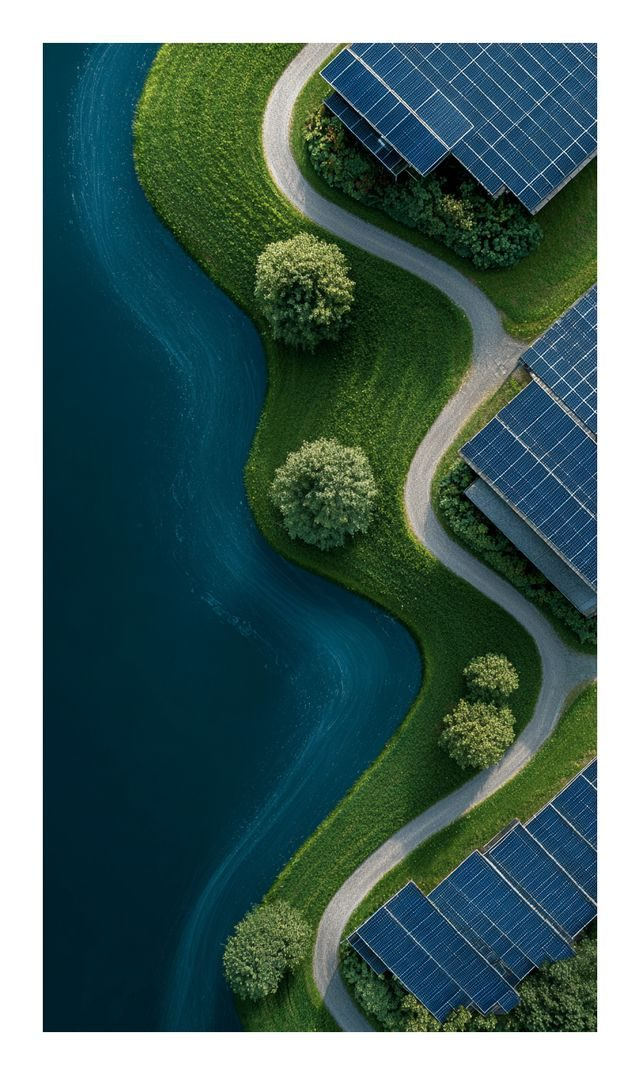
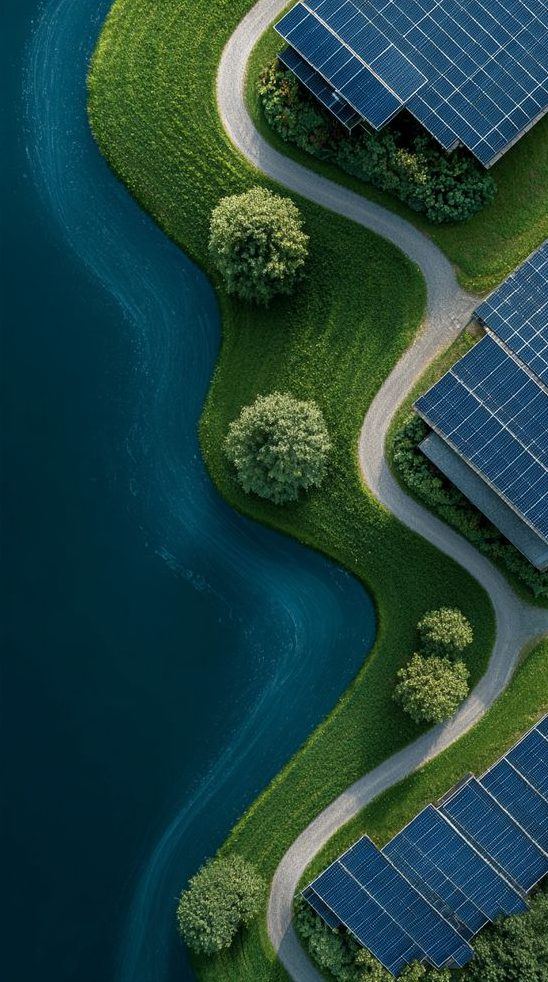
Insights: borderless hero photo; separate thumbnail, cover and inline photo per article
Claude-Session: https://claude.ai/code/session_01VjnP8udn47E4aK7yR8hhyr

diff --git a/insights/biomethane/europe-energy-market-2026/index.html b/insights/biomethane/europe-energy-market-2026/index.html
@@ -36,7 +36,7 @@
   
 <p>Ten months ago the European gas market looked settled. The one-month TTF contract fell below €27/MWh in early December 2025, its lowest level in 20 months, as LNG supply grew and storage looked comfortable. On 22 October 2026 the same benchmark stood near €89/MWh, according to European Commission data reported by ANSA. That is a 177% rise since February, when the conflict involving Iran began and shipments through the Strait of Hormuz came into question.</p>
 
-<figure class="exhibit"><figcaption><span class="ex-num">Exhibit 1</span><span class="ex-title">TTF gas price, September 2025 to October 2026 (€/MWh)</span></figcaption><div class="ex-body"><svg viewBox="0 0 760 320" role="img" aria-label="Dutch TTF gas price, September 2025 to October 2026, in euros per MWh" class="ex-svg" font-family="var(--f-data)" font-size="12"><line x1="56" x2="730" y1="276.0" y2="276.0" stroke="var(--rule)"/><text x="48" y="280.0" text-anchor="end" fill="var(--muted)">0</text><line x1="56" x2="730" y1="225.8" y2="225.8" stroke="var(--rule)"/><text x="48" y="229.8" text-anchor="end" fill="var(--muted)">20</text><line x1="56" x2="730" y1="175.7" y2="175.7" stroke="var(--rule)"/><text x="48" y="179.7" text-anchor="end" fill="var(--muted)">40</text><line x1="56" x2="730" y1="125.5" y2="125.5" stroke="var(--rule)"/><text x="48" y="129.5" text-anchor="end" fill="var(--muted)">60</text><line x1="56" x2="730" y1="75.4" y2="75.4" stroke="var(--rule)"/><text x="48" y="79.4" text-anchor="end" fill="var(--muted)">80</text><line x1="346.0" x2="346.0" y1="26" y2="276" stroke="var(--muted)" stroke-dasharray="3 4"/><text x="352.0" y="38" fill="var(--muted)">Conflict begins</text><path d="M56.0,195.6 L158.1,196.1 L346.0,195.5 L386.5,140.5 L399.5,156.8 L448.1,160.7 L498.3,157.1 L546.9,166.7 L600.4,131.8 L647.4,96.0 L730.0,52.8" fill="none" stroke="var(--accent)" stroke-width="2.25"/><circle cx="56.0" cy="195.6" r="3.5" fill="var(--accent)"><title>01 Sep 2025: 32.1 €/MWh</title></circle><circle cx="158.1" cy="196.1" r="3.5" fill="var(--accent)"><title>03 Nov 2025: 31.9 €/MWh</title></circle><circle cx="346.0" cy="195.5" r="3.5" fill="var(--accent)"><title>27 Feb 2026: 32.1 €/MWh</title></circle><circle cx="386.5" cy="140.5" r="3.5" fill="var(--accent)"><title>24 Mar 2026: 54.0 €/MWh</title></circle><text x="386.5" y="130.5" text-anchor="middle" fill="var(--ink)" font-weight="600">54</text><circle cx="399.5" cy="156.8" r="3.5" fill="var(--accent)"><title>01 Apr 2026: 47.5 €/MWh</title></circle><circle cx="448.1" cy="160.7" r="3.5" fill="var(--accent)"><title>01 May 2026: 46.0 €/MWh</title></circle><circle cx="498.3" cy="157.1" r="3.5" fill="var(--accent)"><title>01 Jun 2026: 47.4 €/MWh</title></circle><circle cx="546.9" cy="166.7" r="3.5" fill="var(--accent)"><title>01 Jul 2026: 43.6 €/MWh</title></circle><circle cx="600.4" cy="131.8" r="3.5" fill="var(--accent)"><title>03 Aug 2026: 57.5 €/MWh</title></circle><circle cx="647.4" cy="96.0" r="3.5" fill="var(--accent)"><title>01 Sep 2026: 71.8 €/MWh</title></circle><circle cx="730.0" cy="52.8" r="3.5" fill="var(--accent)"><title>22 Oct 2026: 89.0 €/MWh</title></circle><text x="730.0" y="42.8" text-anchor="middle" fill="var(--ink)" font-weight="600">89</text><text x="104.6" y="296" text-anchor="middle" fill="var(--muted)">Oct 25</text><text x="253.7" y="296" text-anchor="middle" fill="var(--muted)">Jan 26</text><text x="399.5" y="296" text-anchor="middle" fill="var(--muted)">Apr 26</text><text x="546.9" y="296" text-anchor="middle" fill="var(--muted)">Jul 26</text><text x="696.0" y="296" text-anchor="middle" fill="var(--muted)">Oct 26</text><line x1="56" x2="730" y1="276" y2="276" stroke="var(--rule-strong)"/></svg></div><p class="ex-note">Single-day prints, mostly the first trading day of each month. The late-February level is implied from the Commission's +177% figure.</p><p class="ex-source">Source: <a href="https://index.minfin.com.ua/markets/gas/ttf/2026-09/" rel="noopener" target="_blank">minfin.com.ua TTF history</a> · <a href="https://tradingeconomics.com/commodity/eu-natural-gas%20" rel="noopener" target="_blank">Trading Economics</a> · <a href="https://www.soldionline.it/notizie/forex-commodities/gas-ue-177-da-febbraio-cosa-ce-dietro-il-balzo-del-ttf-a-89-mwh" rel="noopener" target="_blank">ANSA via SoldiOnline</a>; Qiao Partners.</p><figure class="photo-break"><img class="pb-img" src="/img/insights/eu-flag-mountains.jpg" alt="European Union flag flying against misty mountains" style="object-position:50% 45%" loading="lazy" decoding="async"><figcaption>European Union flag flying against misty mountains</figcaption></figure></figure>
+<figure class="exhibit"><figcaption><span class="ex-num">Exhibit 1</span><span class="ex-title">TTF gas price, September 2025 to October 2026 (€/MWh)</span></figcaption><div class="ex-body"><svg viewBox="0 0 760 320" role="img" aria-label="Dutch TTF gas price, September 2025 to October 2026, in euros per MWh" class="ex-svg" font-family="var(--f-data)" font-size="12"><line x1="56" x2="730" y1="276.0" y2="276.0" stroke="var(--rule)"/><text x="48" y="280.0" text-anchor="end" fill="var(--muted)">0</text><line x1="56" x2="730" y1="225.8" y2="225.8" stroke="var(--rule)"/><text x="48" y="229.8" text-anchor="end" fill="var(--muted)">20</text><line x1="56" x2="730" y1="175.7" y2="175.7" stroke="var(--rule)"/><text x="48" y="179.7" text-anchor="end" fill="var(--muted)">40</text><line x1="56" x2="730" y1="125.5" y2="125.5" stroke="var(--rule)"/><text x="48" y="129.5" text-anchor="end" fill="var(--muted)">60</text><line x1="56" x2="730" y1="75.4" y2="75.4" stroke="var(--rule)"/><text x="48" y="79.4" text-anchor="end" fill="var(--muted)">80</text><line x1="346.0" x2="346.0" y1="26" y2="276" stroke="var(--muted)" stroke-dasharray="3 4"/><text x="352.0" y="38" fill="var(--muted)">Conflict begins</text><path d="M56.0,195.6 L158.1,196.1 L346.0,195.5 L386.5,140.5 L399.5,156.8 L448.1,160.7 L498.3,157.1 L546.9,166.7 L600.4,131.8 L647.4,96.0 L730.0,52.8" fill="none" stroke="var(--accent)" stroke-width="2.25"/><circle cx="56.0" cy="195.6" r="3.5" fill="var(--accent)"><title>01 Sep 2025: 32.1 €/MWh</title></circle><circle cx="158.1" cy="196.1" r="3.5" fill="var(--accent)"><title>03 Nov 2025: 31.9 €/MWh</title></circle><circle cx="346.0" cy="195.5" r="3.5" fill="var(--accent)"><title>27 Feb 2026: 32.1 €/MWh</title></circle><circle cx="386.5" cy="140.5" r="3.5" fill="var(--accent)"><title>24 Mar 2026: 54.0 €/MWh</title></circle><text x="386.5" y="130.5" text-anchor="middle" fill="var(--ink)" font-weight="600">54</text><circle cx="399.5" cy="156.8" r="3.5" fill="var(--accent)"><title>01 Apr 2026: 47.5 €/MWh</title></circle><circle cx="448.1" cy="160.7" r="3.5" fill="var(--accent)"><title>01 May 2026: 46.0 €/MWh</title></circle><circle cx="498.3" cy="157.1" r="3.5" fill="var(--accent)"><title>01 Jun 2026: 47.4 €/MWh</title></circle><circle cx="546.9" cy="166.7" r="3.5" fill="var(--accent)"><title>01 Jul 2026: 43.6 €/MWh</title></circle><circle cx="600.4" cy="131.8" r="3.5" fill="var(--accent)"><title>03 Aug 2026: 57.5 €/MWh</title></circle><circle cx="647.4" cy="96.0" r="3.5" fill="var(--accent)"><title>01 Sep 2026: 71.8 €/MWh</title></circle><circle cx="730.0" cy="52.8" r="3.5" fill="var(--accent)"><title>22 Oct 2026: 89.0 €/MWh</title></circle><text x="730.0" y="42.8" text-anchor="middle" fill="var(--ink)" font-weight="600">89</text><text x="104.6" y="296" text-anchor="middle" fill="var(--muted)">Oct 25</text><text x="253.7" y="296" text-anchor="middle" fill="var(--muted)">Jan 26</text><text x="399.5" y="296" text-anchor="middle" fill="var(--muted)">Apr 26</text><text x="546.9" y="296" text-anchor="middle" fill="var(--muted)">Jul 26</text><text x="696.0" y="296" text-anchor="middle" fill="var(--muted)">Oct 26</text><line x1="56" x2="730" y1="276" y2="276" stroke="var(--rule-strong)"/></svg></div><p class="ex-note">Single-day prints, mostly the first trading day of each month. The late-February level is implied from the Commission's +177% figure.</p><p class="ex-source">Source: <a href="https://index.minfin.com.ua/markets/gas/ttf/2026-09/" rel="noopener" target="_blank">minfin.com.ua TTF history</a> · <a href="https://tradingeconomics.com/commodity/eu-natural-gas%20" rel="noopener" target="_blank">Trading Economics</a> · <a href="https://www.soldionline.it/notizie/forex-commodities/gas-ue-177-da-febbraio-cosa-ce-dietro-il-balzo-del-ttf-a-89-mwh" rel="noopener" target="_blank">ANSA via SoldiOnline</a>; Qiao Partners.</p><figure class="photo-break"><img class="pb-img" src="/img/insights/containers.jpg" alt="Stacked shipping containers" style="object-position:50% 40%" loading="lazy" decoding="async"><figcaption>Stacked shipping containers</figcaption></figure></figure>
 
 <h2 id="diversification-reduced-one-risk-and-exposed-another">Diversification reduced one risk and exposed another</h2>
 <p>After 2022 Europe replaced Russian pipeline gas with LNG from the United States, Qatar and elsewhere. That reduced dependence on a single supplier. It did not reduce dependence on shipping lanes, or on competing with Asian buyers for the same cargoes. The 2026 disruption tested exactly that exposure.</p>

diff --git a/pl/insights/index.html b/pl/insights/index.html
@@ -23,7 +23,7 @@
 <main>
 <div class="wrap">
 <section class="hub-hero"><div><div class="eyebrow">Qiao Partners</div><h1>Analizy</h1><p>Analizy transformacji energetycznej w Europie i korytarza Chiny–Europa: rynki, regulacje, urządzenia i handel.</p><p class="lang-note">Artykuły publikujemy najpierw po angielsku. Wersja polska wkrótce.</p></div>
-<figure class="hub-pic"><img class="" src="/img/insights/solar-lake.jpg" alt="Solar panels along a winding path beside a lake, seen from above" style="object-position:50% 50%" decoding="async"></figure></section>
+<figure class="hub-pic"><img class="" src="/img/insights/solar-field-aerial.jpg" alt="Rows of solar panels and power lines in a large solar field, seen from above" style="object-position:50% 50%" decoding="async"></figure></section>
 <div class="section-h"><h2>Seria</h2></div>
 <section class="series-feature"><div>
 <figure class="series-pic"><img class="" src="/img/insights/winding-road-fields.jpg" alt="A winding road through farmland, seen from above" style="object-position:50% 45%" loading="lazy" decoding="async"></figure>
@@ -31,11 +31,11 @@
 <h3>Rozbudowa rynku biometanu</h3><p>Sześcioczęściowa seria o europejskim rynku gazu odnawialnego: jak bardzo urósł, czego wymaga cel na 2030 r., gdzie trafią urządzenia i kapitał oraz jak przepisy kształtują przychody instalacji.</p><p class="upcoming">Następna część: <b>Biometan na poziomie 8 mld m³: ile Europa osiągnęła i ile jej brakuje</b> · 8 listopada 2026</p></div>
 <ol class="toc"><li><a href="/insights/biomethane/europe-energy-market-2026/"><span class="toc-n">01</span><span class="toc-t">Szok gazowy w Europie w 2026 r. i argumenty za krajowym gazem</span></a></li></ol></section>
 <div class="section-h"><h2>Najnowsze</h2></div>
-<div class="cards"><article class="card"><a class="thumb" href="/insights/biomethane/europe-energy-market-2026/" tabindex="-1" aria-hidden="true"><img class="" src="/img/insights/crossroads.jpg" alt="A person standing at a road junction with arrows pointing in four directions" style="object-position:50% 50%" loading="lazy" decoding="async"></a><div class="eyebrow">Rozbudowa rynku biometanu</div>
+<div class="cards"><article class="card"><a class="thumb" href="/insights/biomethane/europe-energy-market-2026/" tabindex="-1" aria-hidden="true"><img class="" src="/img/insights/eu-flag-mountains.jpg" alt="European Union flag flying against misty mountains" style="object-position:50% 45%" loading="lazy" decoding="async"></a><div class="eyebrow">Rozbudowa rynku biometanu</div>
 <h3><a href="/insights/biomethane/europe-energy-market-2026/">Szok gazowy w Europie w 2026 r. i argumenty za krajowym gazem</a></h3><p>Cena gazu TTF wzrosła od lutego niemal trzykrotnie. Biometan przestał być wyłącznie narzędziem klimatycznym i stał się kwestią bezpieczeństwa dostaw, a to zmienia, kto go kupuje i dlaczego.</p>
-<div class="meta">1 listopada 2026 · 5 min czytania</div></article><article class="card soon"><a class="thumb" tabindex="-1" aria-hidden="true"><img class="" src="/img/insights/biomethane-domes.jpg" alt="Biomethane plant with green digester domes in a field" style="object-position:50% 55%" loading="lazy" decoding="async"></a>
+<div class="meta">1 listopada 2026 · 5 min czytania</div></article><article class="card soon"><a class="thumb" tabindex="-1" aria-hidden="true"><img class="" src="/img/insights/field-road-truck.jpg" alt="Red truck on a straight dirt road through green crop fields, seen from above" style="object-position:50% 72%" loading="lazy" decoding="async"></a>
 <div class="eyebrow">Następna część · 8 listopada 2026</div>
-<h3>Biometan na poziomie 8 mld m³: ile Europa osiągnęła i ile jej brakuje</h3><p>Zainstalowana moc wzrosła w ciągu roku o 17%, a zobowiązania inwestycyjne sięgnęły 36 mld euro. Nawet jeśli powstaną wszystkie ogłoszone projekty, Europa osiągnie mniej więcej połowę celu na 2030 r.</p></article><article class="card soon"><a class="thumb" tabindex="-1" aria-hidden="true"><img class="" src="/img/insights/biomethane-plant-trucks.jpg" alt="Biomethane plant with feedstock trucks arriving" style="object-position:50% 55%" loading="lazy" decoding="async"></a>
+<h3>Biometan na poziomie 8 mld m³: ile Europa osiągnęła i ile jej brakuje</h3><p>Zainstalowana moc wzrosła w ciągu roku o 17%, a zobowiązania inwestycyjne sięgnęły 36 mld euro. Nawet jeśli powstaną wszystkie ogłoszone projekty, Europa osiągnie mniej więcej połowę celu na 2030 r.</p></article><article class="card soon"><a class="thumb" tabindex="-1" aria-hidden="true"><img class="" src="/img/insights/solar-crew.jpg" alt="Workers in red helmets installing solar panels" style="object-position:50% 40%" loading="lazy" decoding="async"></a>
 <div class="eyebrow">Następna część · 15 listopada 2026</div>
 <h3>6500 instalacji do zbudowania: gdzie trafią europejskie wydatki na urządzenia do biometanu</h3><p>Osiągnięcie celu na 2030 r. wymaga ponad czterokrotnie szybszej budowy niż obecnie. Wąskim gardłem nie są już surowce i finansowanie, lecz moce produkcyjne i wykonawcze.</p></article></div>
 </div>

diff --git a/insights/index.html b/insights/index.html
@@ -23,7 +23,7 @@
 <main>
 <div class="wrap">
 <section class="hub-hero"><div><div class="eyebrow">Qiao Partners</div><h1>Insights</h1><p>Research on Europe&#x27;s energy transition and the China–Europe corridor: markets, regulation, equipment and trade.</p></div>
-<figure class="hub-pic"><img class="" src="/img/insights/solar-lake.jpg" alt="Solar panels along a winding path beside a lake, seen from above" style="object-position:50% 50%" decoding="async"></figure></section>
+<figure class="hub-pic"><img class="" src="/img/insights/solar-field-aerial.jpg" alt="Rows of solar panels and power lines in a large solar field, seen from above" style="object-position:50% 50%" decoding="async"></figure></section>
 <div class="section-h"><h2>Series</h2></div>
 <section class="series-feature"><div>
 <figure class="series-pic"><img class="" src="/img/insights/winding-road-fields.jpg" alt="A winding road through farmland, seen from above" style="object-position:50% 45%" loading="lazy" decoding="async"></figure>
@@ -31,11 +31,11 @@
 <h3>The Biomethane Build-Out</h3><p>A six-part series on Europe&#x27;s renewable gas market: how large it has become, what it will take to reach the 2030 target, where the equipment and capital will go, and how the rules shape what a plant can earn.</p><p class="upcoming">Next in the series: <b>Biomethane at 8 bcm: how far Europe has come and how far it has to go</b> · 8 November 2026</p></div>
 <ol class="toc"><li><a href="/insights/biomethane/europe-energy-market-2026/"><span class="toc-n">01</span><span class="toc-t">Europe&#x27;s 2026 gas shock and the case for domestic molecules</span></a></li></ol></section>
 <div class="section-h"><h2>Latest</h2></div>
-<div class="cards"><article class="card"><a class="thumb" href="/insights/biomethane/europe-energy-market-2026/" tabindex="-1" aria-hidden="true"><img class="" src="/img/insights/crossroads.jpg" alt="A person standing at a road junction with arrows pointing in four directions" style="object-position:50% 50%" loading="lazy" decoding="async"></a><div class="eyebrow">Biomethane</div>
+<div class="cards"><article class="card"><a class="thumb" href="/insights/biomethane/europe-energy-market-2026/" tabindex="-1" aria-hidden="true"><img class="" src="/img/insights/eu-flag-mountains.jpg" alt="European Union flag flying against misty mountains" style="object-position:50% 45%" loading="lazy" decoding="async"></a><div class="eyebrow">Biomethane</div>
 <h3><a href="/insights/biomethane/europe-energy-market-2026/">Europe&#x27;s 2026 gas shock and the case for domestic molecules</a></h3><p>Dutch TTF gas has almost tripled since February. The price move has turned biomethane from a climate instrument into a question of supply security, and that changes who buys it and why.</p>
-<div class="meta">1 November 2026 · 5 min read</div></article><article class="card soon"><a class="thumb" tabindex="-1" aria-hidden="true"><img class="" src="/img/insights/biomethane-domes.jpg" alt="Biomethane plant with green digester domes in a field" style="object-position:50% 55%" loading="lazy" decoding="async"></a>
+<div class="meta">1 November 2026 · 5 min read</div></article><article class="card soon"><a class="thumb" tabindex="-1" aria-hidden="true"><img class="" src="/img/insights/field-road-truck.jpg" alt="Red truck on a straight dirt road through green crop fields, seen from above" style="object-position:50% 72%" loading="lazy" decoding="async"></a>
 <div class="eyebrow">Next in the series · 8 November 2026</div>
-<h3>Biomethane at 8 bcm: how far Europe has come and how far it has to go</h3><p>Installed capacity grew 17% in a year and investment commitments reached €36 billion. Even if every announced project is built, Europe reaches about half of its 2030 target.</p></article><article class="card soon"><a class="thumb" tabindex="-1" aria-hidden="true"><img class="" src="/img/insights/biomethane-plant-trucks.jpg" alt="Biomethane plant with feedstock trucks arriving" style="object-position:50% 55%" loading="lazy" decoding="async"></a>
+<h3>Biomethane at 8 bcm: how far Europe has come and how far it has to go</h3><p>Installed capacity grew 17% in a year and investment commitments reached €36 billion. Even if every announced project is built, Europe reaches about half of its 2030 target.</p></article><article class="card soon"><a class="thumb" tabindex="-1" aria-hidden="true"><img class="" src="/img/insights/solar-crew.jpg" alt="Workers in red helmets installing solar panels" style="object-position:50% 40%" loading="lazy" decoding="async"></a>
 <div class="eyebrow">Next in the series · 15 November 2026</div>
 <h3>Building 6,500 plants: where Europe&#x27;s biomethane equipment spend will go</h3><p>Reaching the 2030 target would require more than four times the current annual build rate. The constraint has moved from feedstock and finance to manufacturing and construction capacity.</p></article></div>
 </div>

diff --git a/zh/insights/index.html b/zh/insights/index.html
@@ -23,7 +23,7 @@
 <main>
 <div class="wrap">
 <section class="hub-hero"><div><div class="eyebrow">Qiao Partners</div><h1>洞察</h1><p>关于欧洲能源转型与中欧通道的研究：市场、监管、设备与贸易。</p><p class="lang-note">文章先以英文发布，中文版即将推出。</p></div>
-<figure class="hub-pic"><img class="" src="/img/insights/solar-lake.jpg" alt="Solar panels along a winding path beside a lake, seen from above" style="object-position:50% 50%" decoding="async"></figure></section>
+<figure class="hub-pic"><img class="" src="/img/insights/solar-field-aerial.jpg" alt="Rows of solar panels and power lines in a large solar field, seen from above" style="object-position:50% 50%" decoding="async"></figure></section>
 <div class="section-h"><h2>系列</h2></div>
 <section class="series-feature"><div>
 <figure class="series-pic"><img class="" src="/img/insights/winding-road-fields.jpg" alt="A winding road through farmland, seen from above" style="object-position:50% 45%" loading="lazy" decoding="async"></figure>
@@ -31,11 +31,11 @@
 <h3>欧洲生物甲烷产业扩张</h3><p>六篇系列文章，解读欧洲可再生天然气市场：当前规模、实现2030年目标的条件、设备与资本的流向，以及法规如何决定项目收益。</p><p class="upcoming">系列下一篇: <b>生物甲烷达到80亿立方米：欧洲走了多远，还差多少</b> · 2026年11月8日</p></div>
 <ol class="toc"><li><a href="/insights/biomethane/europe-energy-market-2026/"><span class="toc-n">01</span><span class="toc-t">2026年欧洲天然气冲击与本土气源的价值</span></a></li></ol></section>
 <div class="section-h"><h2>最新</h2></div>
-<div class="cards"><article class="card"><a class="thumb" href="/insights/biomethane/europe-energy-market-2026/" tabindex="-1" aria-hidden="true"><img class="" src="/img/insights/crossroads.jpg" alt="A person standing at a road junction with arrows pointing in four directions" style="object-position:50% 50%" loading="lazy" decoding="async"></a><div class="eyebrow">欧洲生物甲烷产业扩张</div>
+<div class="cards"><article class="card"><a class="thumb" href="/insights/biomethane/europe-energy-market-2026/" tabindex="-1" aria-hidden="true"><img class="" src="/img/insights/eu-flag-mountains.jpg" alt="European Union flag flying against misty mountains" style="object-position:50% 45%" loading="lazy" decoding="async"></a><div class="eyebrow">欧洲生物甲烷产业扩张</div>
 <h3><a href="/insights/biomethane/europe-energy-market-2026/">2026年欧洲天然气冲击与本土气源的价值</a></h3><p>自2月以来，荷兰TTF天然气价格上涨近两倍。生物甲烷由此从气候工具变为供应安全问题，这也改变了买家是谁以及他们为何购买。</p>
-<div class="meta">2026年11月1日 · 5 分钟阅读</div></article><article class="card soon"><a class="thumb" tabindex="-1" aria-hidden="true"><img class="" src="/img/insights/biomethane-domes.jpg" alt="Biomethane plant with green digester domes in a field" style="object-position:50% 55%" loading="lazy" decoding="async"></a>
+<div class="meta">2026年11月1日 · 5 分钟阅读</div></article><article class="card soon"><a class="thumb" tabindex="-1" aria-hidden="true"><img class="" src="/img/insights/field-road-truck.jpg" alt="Red truck on a straight dirt road through green crop fields, seen from above" style="object-position:50% 72%" loading="lazy" decoding="async"></a>
 <div class="eyebrow">系列下一篇 · 2026年11月8日</div>
-<h3>生物甲烷达到80亿立方米：欧洲走了多远，还差多少</h3><p>一年内装机容量增长17%，投资承诺达到360亿欧元。即使所有已公布项目全部建成，欧洲也只能完成2030年目标的一半左右。</p></article><article class="card soon"><a class="thumb" tabindex="-1" aria-hidden="true"><img class="" src="/img/insights/biomethane-plant-trucks.jpg" alt="Biomethane plant with feedstock trucks arriving" style="object-position:50% 55%" loading="lazy" decoding="async"></a>
+<h3>生物甲烷达到80亿立方米：欧洲走了多远，还差多少</h3><p>一年内装机容量增长17%，投资承诺达到360亿欧元。即使所有已公布项目全部建成，欧洲也只能完成2030年目标的一半左右。</p></article><article class="card soon"><a class="thumb" tabindex="-1" aria-hidden="true"><img class="" src="/img/insights/solar-crew.jpg" alt="Workers in red helmets installing solar panels" style="object-position:50% 40%" loading="lazy" decoding="async"></a>
 <div class="eyebrow">系列下一篇 · 2026年11月15日</div>
 <h3>建设6500座工厂：欧洲生物甲烷设备支出流向何处</h3><p>实现2030年目标需要目前年建设速度的四倍以上。瓶颈已从原料和融资转向制造与施工能力。</p></article></div>
 </div>

diff --git a/_src/insights/build_insights.py b/_src/insights/build_insights.py
@@ -111,19 +111,25 @@ PHOTO = {
     "insights/wind-patchwork.jpg": ("Wind turbine among patchwork farm fields, seen from above", "50% 50%"),
     "insights/tractor-mowing.jpg": ("Tractor mowing a green field, seen from above", "50% 58%"),
     "insights/solar-lake.jpg": ("Solar panels along a winding path beside a lake, seen from above", "50% 50%"),
+    "insights/solar-field-aerial.jpg": ("Rows of solar panels and power lines in a large solar field, seen from above", "50% 50%"),
+    "insights/containers.jpg": ("Stacked shipping containers", "50% 40%"),
+    "insights/solar-forest-canopy.jpg": ("Solar panels set among forest trees, seen from above", "50% 50%"),
+    "insights/charging-mountain.jpg": ("Fast chargers and an electric car at a mountain roadside", "50% 72%"),
+    "insights/handshake-tower.jpg": ("Two people shaking hands in silhouette in a glass tower", "50% 55%"),
+    "insights/solar-forest-aerial.jpg": ("Rows of solar panels beside a forest, seen from above", "50% 50%"),
     "insights/winding-road-fields.jpg": ("A winding road through farmland, seen from above", "50% 45%"),
 }
 ALT = {k: v[0] for k, v in PHOTO.items()}
-# (cover, photo break inside the article)
+# (card thumbnail, cover, photo break inside the article): three different photos per article
 IMG = {
-    "europe-energy-market-2026": ("insights/crossroads.jpg", "insights/eu-flag-mountains.jpg"),
-    "european-biomethane-market-2026": ("insights/biomethane-domes.jpg", "insights/field-road-truck.jpg"),
-    "biomethane-equipment-market-europe": ("insights/biomethane-plant-trucks.jpg", "insights/solar-crew.jpg"),
-    "china-europe-biomethane-investment": ("insights/handshake-close.jpg", "insights/solar-handshake-sunset.jpg"),
-    "biomethane-revenue-stack-eu-regulation": ("insights/eu-flags-berlaymont.jpg", "insights/solar-wind-coast.jpg"),
-    "poland-biomethane-market-2026": ("insights/wind-patchwork.jpg", "insights/tractor-mowing.jpg"),
+    "europe-energy-market-2026": ("insights/eu-flag-mountains.jpg", "insights/crossroads.jpg", "insights/containers.jpg"),
+    "european-biomethane-market-2026": ("insights/field-road-truck.jpg", "insights/biomethane-domes.jpg", "insights/solar-forest-canopy.jpg"),
+    "biomethane-equipment-market-europe": ("insights/solar-crew.jpg", "insights/biomethane-plant-trucks.jpg", "insights/charging-mountain.jpg"),
+    "china-europe-biomethane-investment": ("insights/solar-handshake-sunset.jpg", "insights/handshake-close.jpg", "insights/handshake-tower.jpg"),
+    "biomethane-revenue-stack-eu-regulation": ("insights/solar-wind-coast.jpg", "insights/eu-flags-berlaymont.jpg", "insights/solar-forest-aerial.jpg"),
+    "poland-biomethane-market-2026": ("insights/tractor-mowing.jpg", "insights/wind-patchwork.jpg", "insights/solar-lake.jpg"),
 }
-HUB_IMG, SERIES_IMG = "insights/solar-lake.jpg", "insights/winding-road-fields.jpg"
+HUB_IMG, SERIES_IMG = "insights/solar-field-aerial.jpg", "insights/winding-road-fields.jpg"
 
 
 def img(f, cls, lazy=True, pos=None):
@@ -293,7 +299,7 @@ def article(i, css):
         right = (f'<a href="{art_url(next_)}"><span class="meta">Next · Part {next_["part"]}</span><span>{escape(next_["short"])}</span></a>') if next_ else "<span></span>"
         pager = f'<nav class="pager" aria-label="Series">{left}{right}</nav>'
     d = RELEASE[a["slug"]]
-    cover, mid = IMG[a["slug"]]
+    _thumb, cover, mid = IMG[a["slug"]]
     art_body, heads = enrich(a["body"], mid)
     contents = "".join(f'<li><a href="#{i}">{escape(t)}</a></li>' for i, t in heads)
     body = f'''<div class="wrap">
